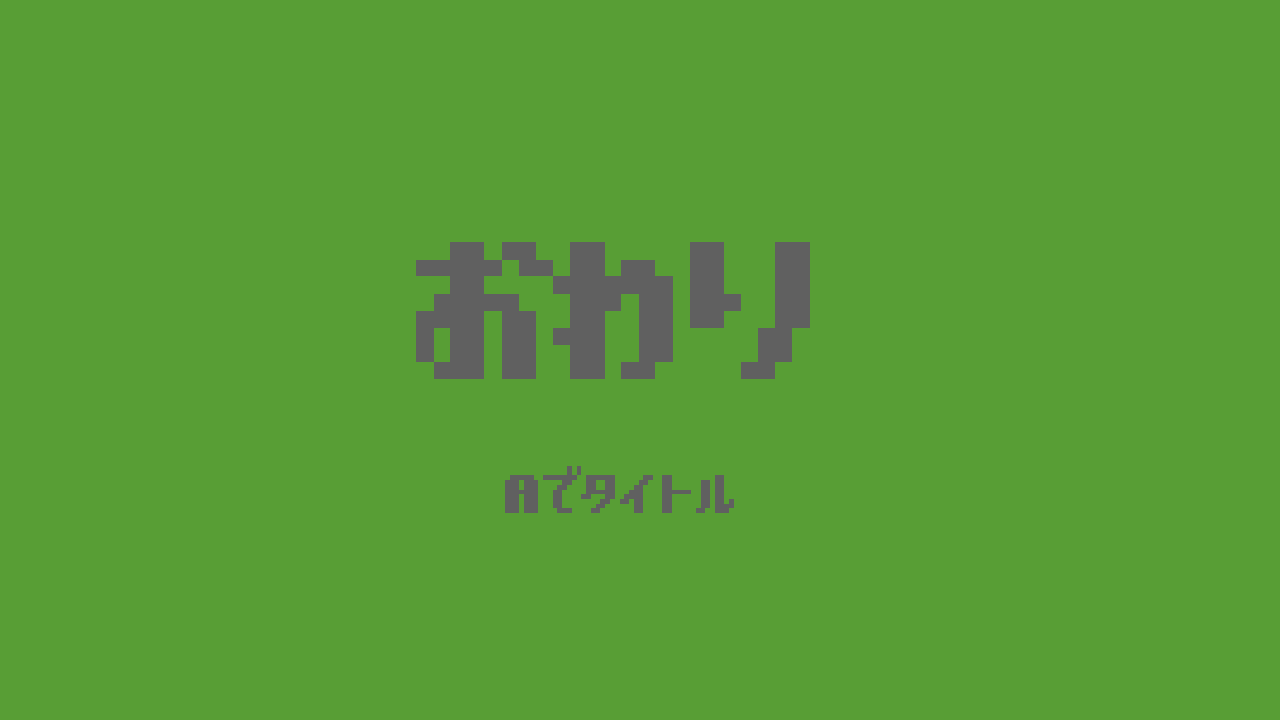
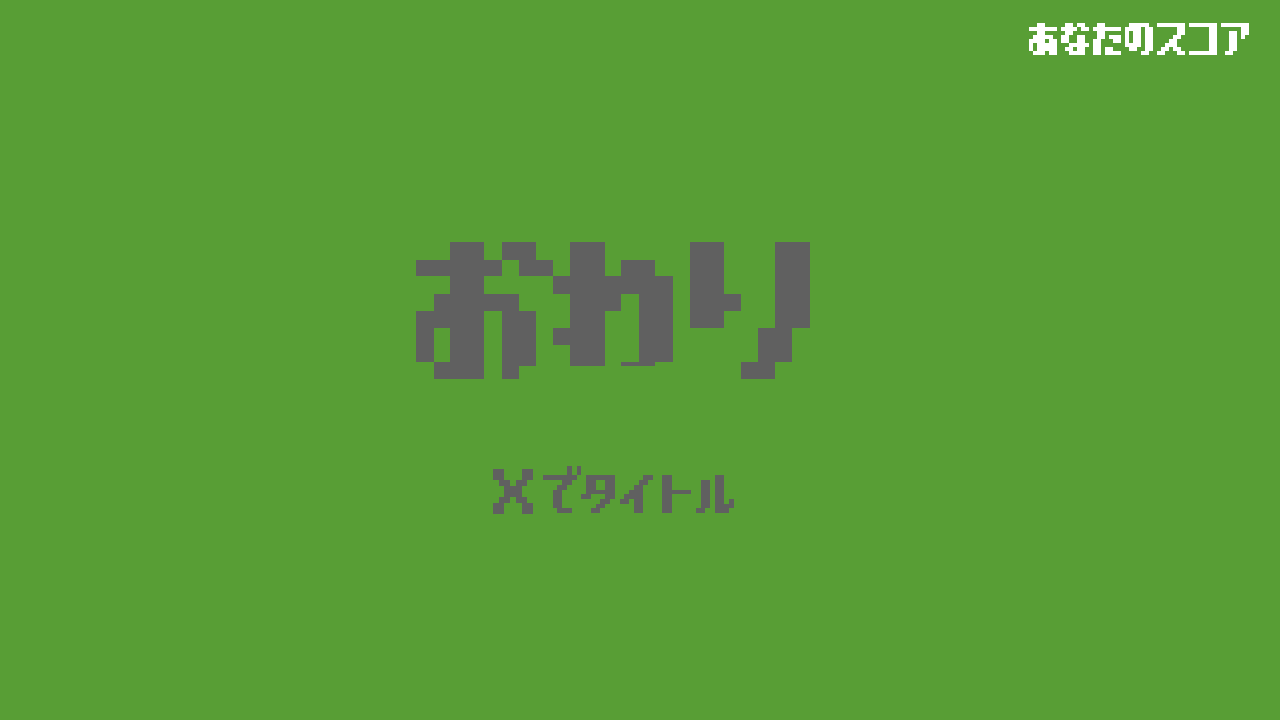
とりあえずゲームっぽくした

Changed region(s): [[0.7812, 0.0306, 1.0, 0.0917], [0.4062, 0.4889, 0.5312, 0.55], [0.375, 0.6417, 0.4375, 0.7333]]

diff --git a/main.cpp b/main.cpp
@@ -179,7 +179,7 @@ int WINAPI WinMain(HINSTANCE, HINSTANCE, LPSTR, int) {
 			break;
 		case OUTGAME:
 			//Aボタン押下時
-			if (Controller::IsTriggerButton(0, Controller::bA)) {
+			if (Controller::IsTriggerButton(0, Controller::bX)) {
 				scene = TITLE;
 			}
 			break;
@@ -233,6 +233,13 @@ int WINAPI WinMain(HINSTANCE, HINSTANCE, LPSTR, int) {
 			break;
 		case OUTGAME:
 			Novice::DrawSprite(0, 0, end, 1, 1, 0.0f, WHITE);
+			int Result[6];
+			int tmpScore = ui.mScore;
+			for (int i = 5; i > -1; i--) {
+				Result[i] = tmpScore / powf(10, i);
+				tmpScore = tmpScore % (int)powf(10, i);
+				screen.DrawUI(ui.mScorePosition[i], ui.mTimeUISize, 32 * Result[i], 32, 32, ui.mTimeNumber, WHITE, ui.mComboScale);
+			}
 			break;
 		}
 

diff --git a/Ingame.h b/Ingame.h
@@ -40,7 +40,7 @@ public:
 	const int kSnakeScore = 1000;
 	const int kTsuchinokoScore = 1500;
 	Vec2 mScorePosition[6];
-	int mScore;
+	float mScore;
 	void SnakeScore(bool playermIsStrikeActive);
 	void MissSnakeScore(bool playermIsStrikeActive);
 	void TsuchinokoScore(bool playermIsStrikeActive);
@@ -51,6 +51,8 @@ public:
 	bool mIsLoadTexture = false;
 	int mTimeUISize;
 	int mTimeNumber;
+	int mComboLetter;
+	int mScoreLetter;
 
 };
 
